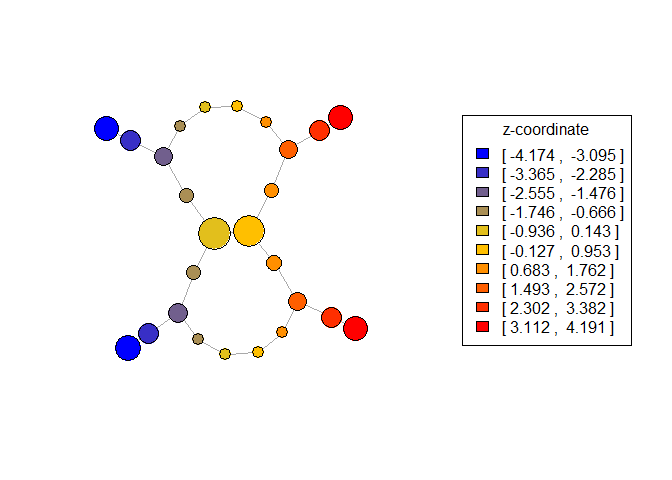
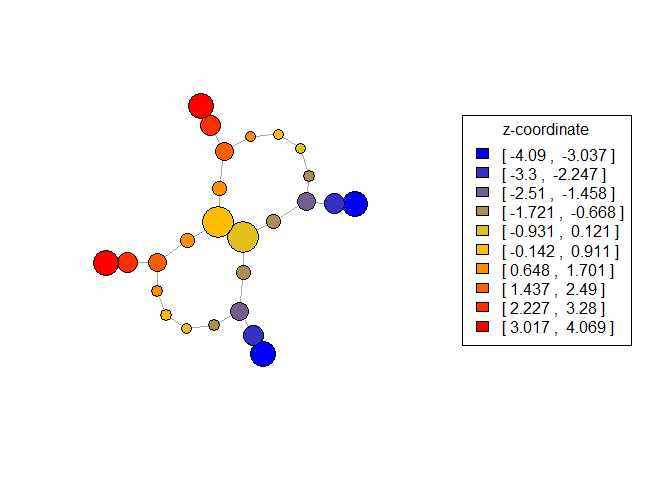
specialize ball mapper and clusterball mapper

diff --git a/README.md b/README.md
@@ -184,10 +184,10 @@ number of data points in the cluster.
 
 <img src="README_files/figure-gfm/mapping_the_mapper-1.png" width="50%" /><img src="README_files/figure-gfm/mapping_the_mapper-2.png" width="50%" /><img src="README_files/figure-gfm/mapping_the_mapper-3.png" width="50%" /><img src="README_files/figure-gfm/mapping_the_mapper-4.png" width="50%" />
 
-## Example: ballmapper
+## Example: ball mapper
 
 By toying with the general mapper parameters, we can obtain different
-flavors of the algorithm. In the *ballmapper* flavor, we simply use the
+flavors of the algorithm. In the *ball mapper* flavor, we simply use the
 inclusion into the ambient space of the data as our lens function, and
 let the cover do the work. Specifically, we cover the ambient space with
 $\varepsilon$-balls by creating a $\varepsilon$-net, which can be done
@@ -207,10 +207,16 @@ the 1D mapper, but no coloring is done as each vertex would have to
 receive its own color in this flavor, which is redundant.
 
 ``` r
-ballmapper1 = get_ballmapper_data(P.data, P.dist, .25)
-ballmapper2 = get_ballmapper_data(P.data, P.dist, .5)
-ballmapper3 = get_ballmapper_data(P.data, P.dist, 1)
-ballmapper4 = get_ballmapper_data(P.data, P.dist, 2)
+# creates a cover using a greedy algorithm
+balls1 = create_balls(data = P.data, dists = P.dist, eps = .25)
+
+# filtering is just giving back the data (row names because it's not 1D anymore)
+ballmapper1 = create_mapper_object(P.data, P.dist, rownames(P.data), lapply(balls1, is_in_ball))
+
+# mappeR has a built-in ball mapper function to do this for you
+ballmapper2 = create_ball_mapper_object(P.data, P.dist, .5)
+ballmapper3 = create_ball_mapper_object(P.data, P.dist, 1)
+ballmapper4 = create_ball_mapper_object(P.data, P.dist, 2)
 ```
 
 <img src="README_files/figure-gfm/ballmapper_time-1.png" width="50%" /><img src="README_files/figure-gfm/ballmapper_time-2.png" width="50%" /><img src="README_files/figure-gfm/ballmapper_time-3.png" width="50%" /><img src="README_files/figure-gfm/ballmapper_time-4.png" width="50%" />
